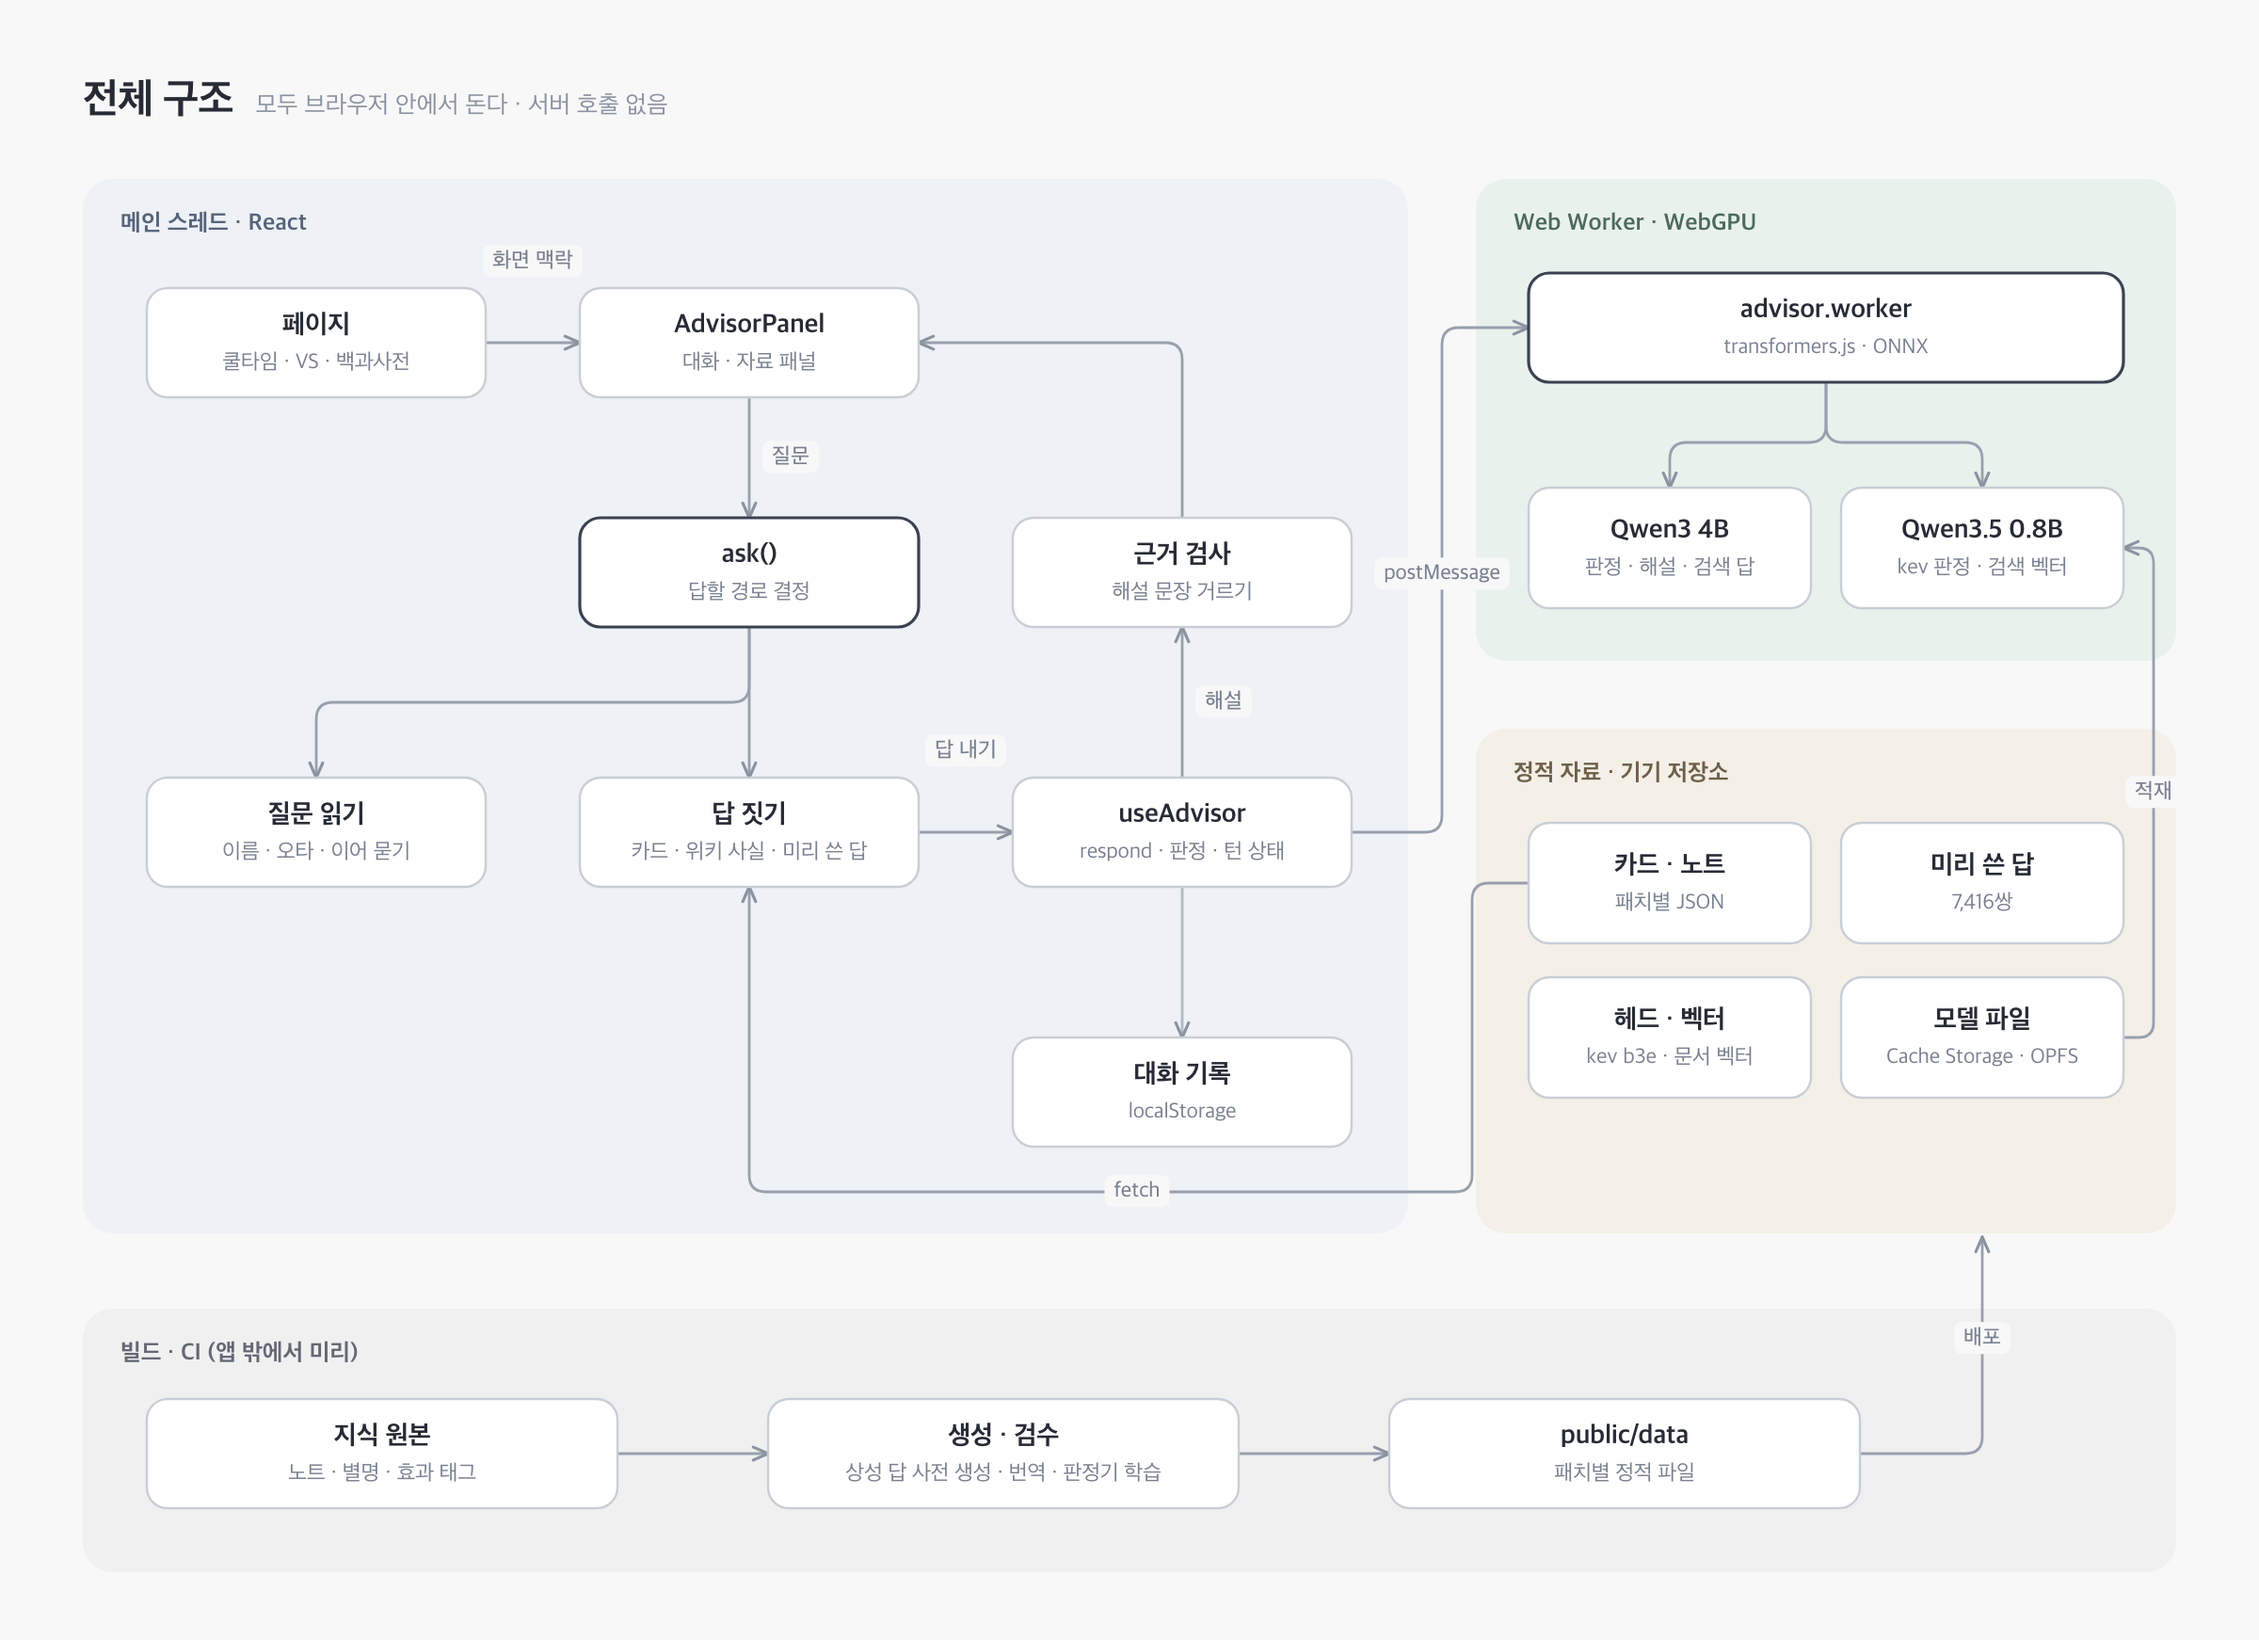
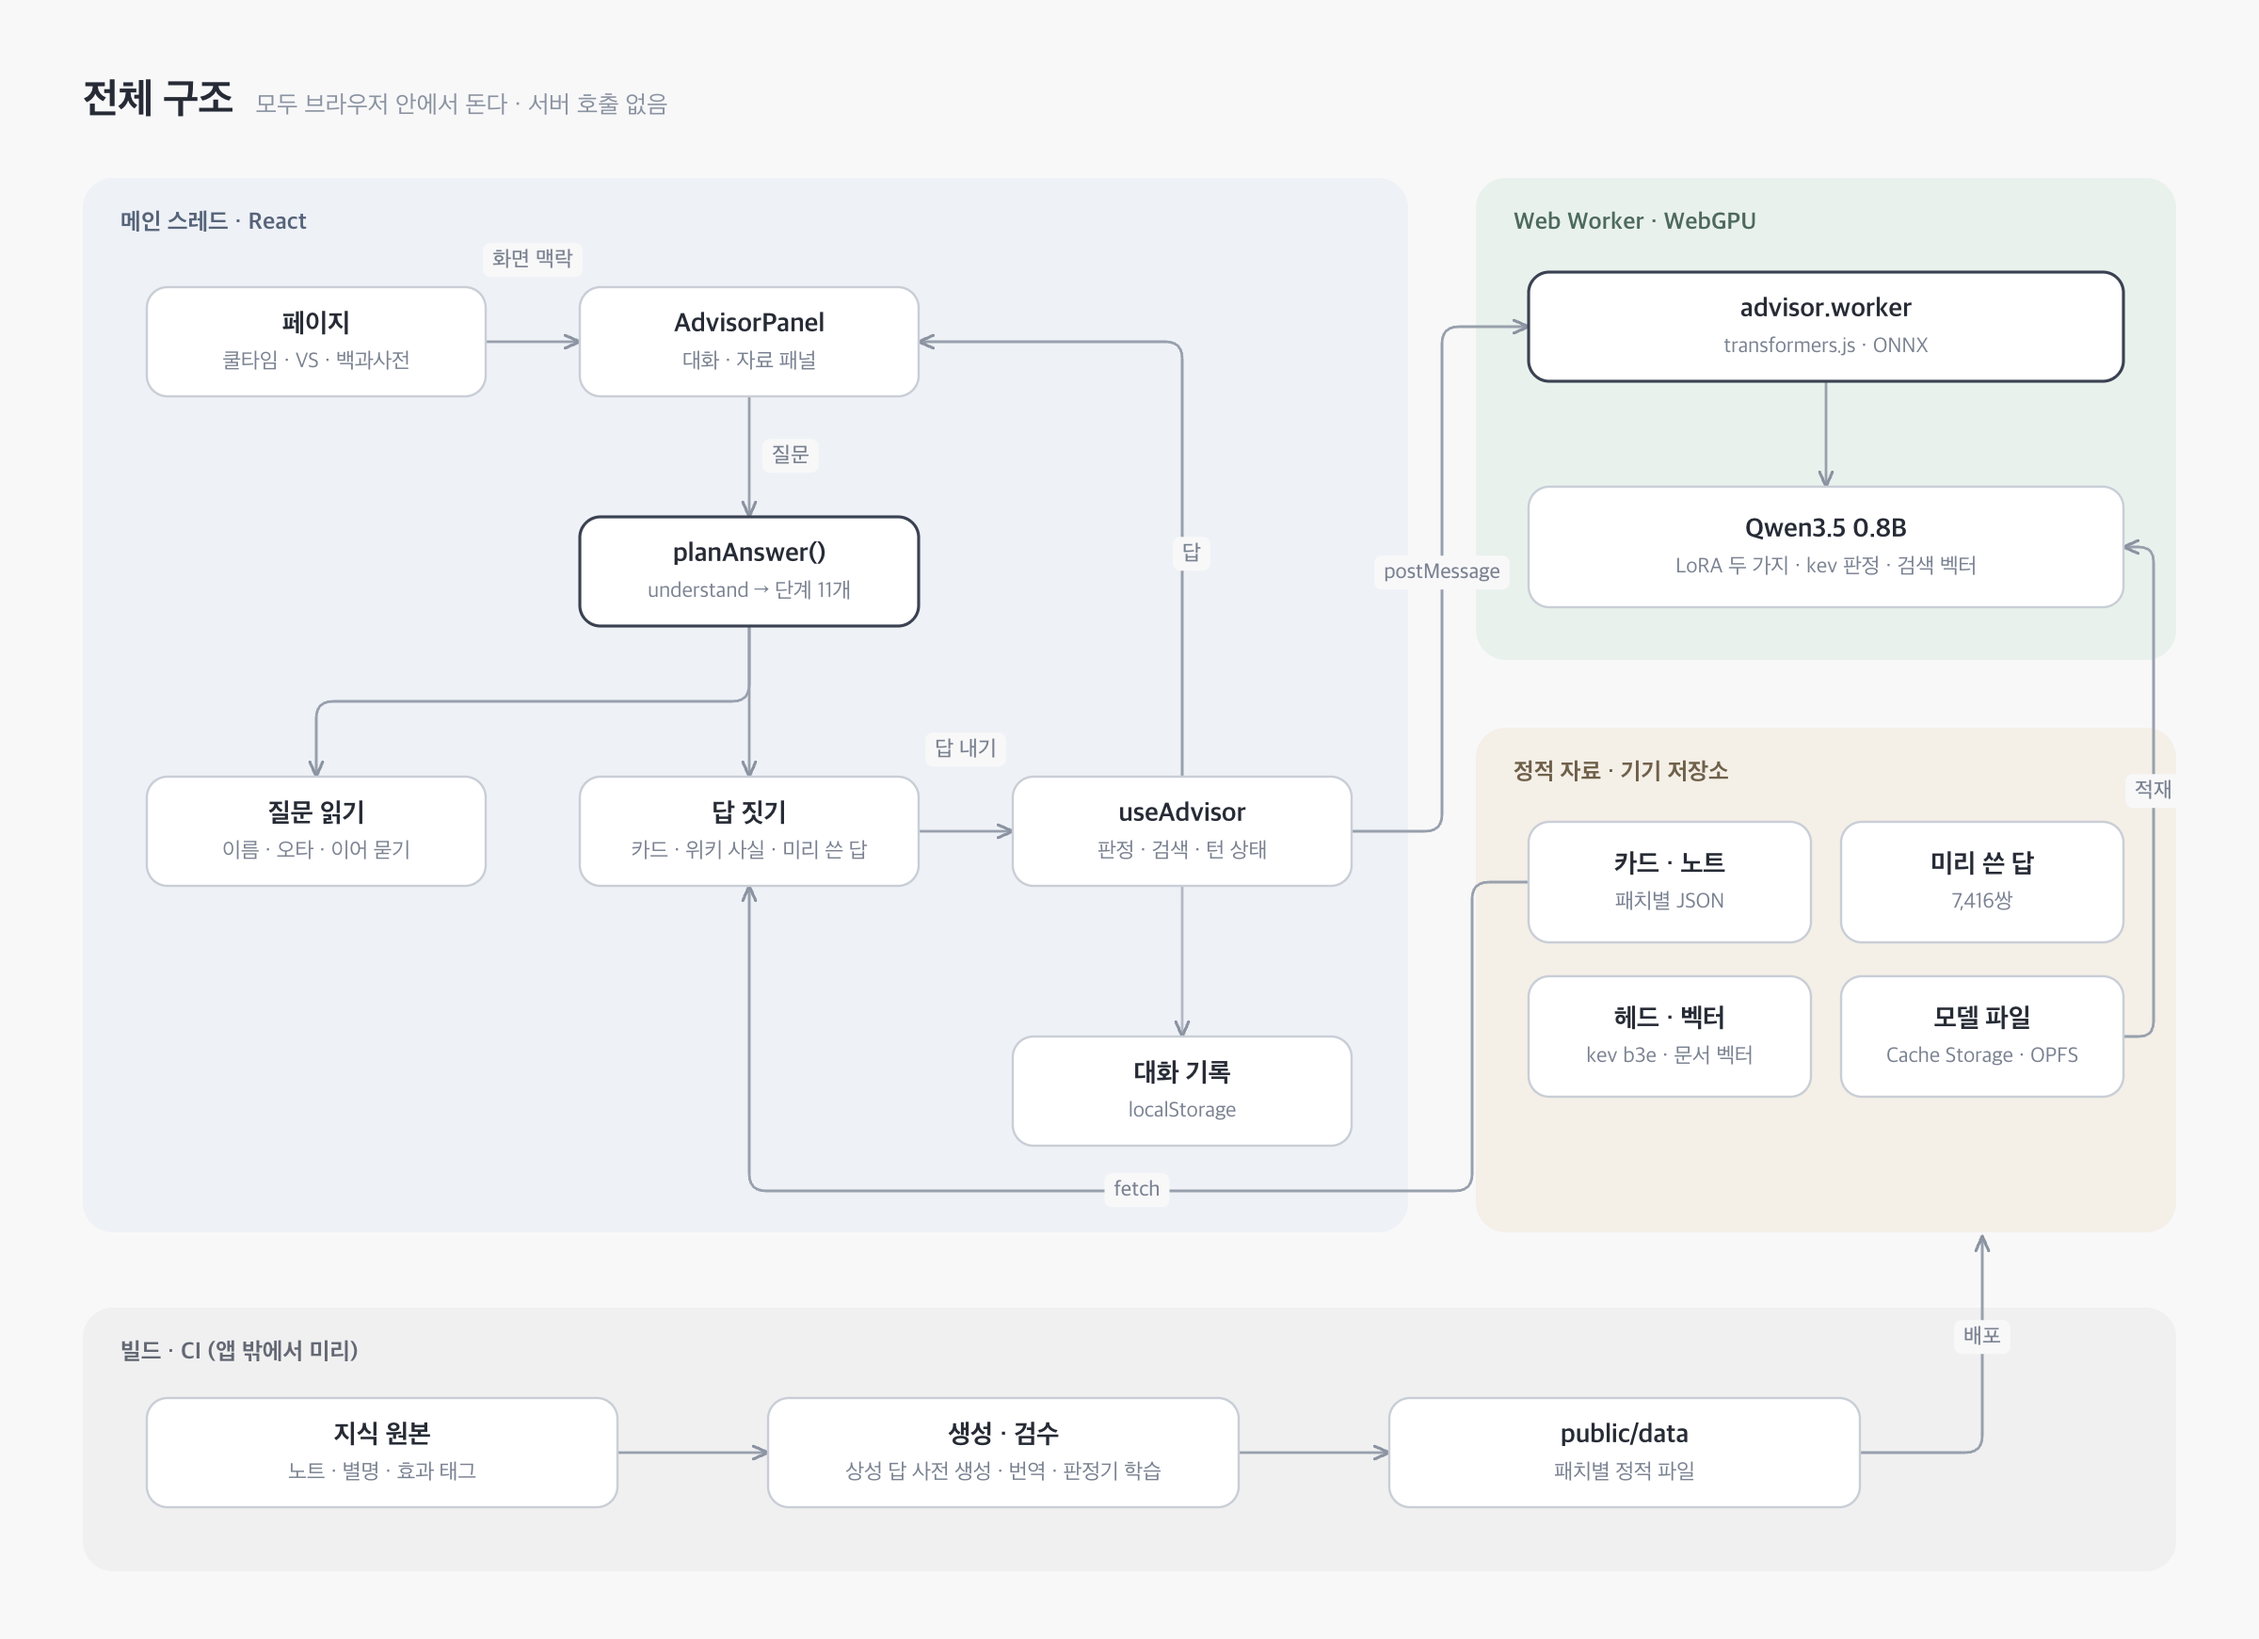
docs: 도우미 구조도·흐름도·코드 지도와 답 구조 문서를 0.8B 하나와 나눈 파일에 맞춘다

diff --git a/docs/advisor-answer-pipeline.md b/docs/advisor-answer-pipeline.md
@@ -9,19 +9,20 @@
 ```
 질문
  → 챔피언 이름 찾기 (intent.ts: 정식 이름 → 별명 사전 → 다른 언어·음역, 흔한 말·아이템 이름은 가림)
- → 질문 갈래 (0.8B 판정 헤드 route-v2 · 4B 는 생성으로 분류)
+ → 질문 갈래 (0.8B kev 판정 헤드 kev-b3e — 아홉 칸을 한 번에)
  → 상성이면
      맞붙는 둘 고르기 (이름이 셋 이상이면 자리 낱말[정글·서폿·jungler·打野]이 붙은 이름을 뺀다)
      시점(누가 내 챔피언) : 조사가 확실하면 조사 → 아니면 판정기 → 영어·중국어는 문형 보정
-     주제 : 못 박는 낱말(한타·라인전·아이템·후반·"피오라 W"…) → 없으면 판정기(topic-v1, 확신 0.6 미만이면 일반)
+     주제 : 못 박는 낱말(한타·라인전·아이템·후반·"피오라 W"…) → 없으면 판정기(kev, 확신 0.6 미만이면 일반). 쓰는 단계가 부를 때만 판정
      답   : 미리 쓴 상성 답(matchups/<내 챔피언>.json)이 있으면 그것 → 없으면 노트 조립
  → 그 밖(스킬·아이템·룬 …)은 카드·규칙 답
 ```
 
-- **0.8B(Qwen3.5 q4)는 판정만 한다.** 글을 쓰게 하면 되풀이·지어내기가 났다. 판정 헤드는 kev 방식
-  (원본 q4 logits 2,048개 위 포인터 헤드)이라 생성과 같은 모델 파일을 쓴다. 프롬프트가 약 2,120토큰을
+- **모델은 Qwen3.5 0.8B(q4) 하나다(2026-09-27 Qwen3 4B 제거).** 판정과 이름 없는 질문의 벡터 검색만 한다.
+  글을 쓰게 하면 되풀이·지어내기가 났다. 판정 LoRA(b3-v2)와 검색 LoRA(eol-ep3)를 한 그래프(`public/models/kev/b3e/`)에
+  실어 가중치는 원본을 그대로 받는다. 흐름은 `src/lib/advisor/plan.ts`(understand → 단계 함수, 순서가 곧 우선순위). 프롬프트가 약 2,120토큰을
   넘으면 WebGPU 실행이 죽어 워커가 1,900토큰에서 자른다.
-- **미리 쓴 답이 있으면 4B 가 있어도 그것을 쓴다.** 큰 모델이 검증된 재료로 쓴 글이 기기에서 새로 쓰는 것보다 낫다.
+- **미리 쓴 답이 있으면 그것을 쓴다.** 큰 모델이 검증된 재료로 쓴 글이 기기에서 새로 쓰는 것보다 낫다.
 
 ## 2. 노트 조립 (`src/lib/advisor/prose.ts` digestSections)
 
